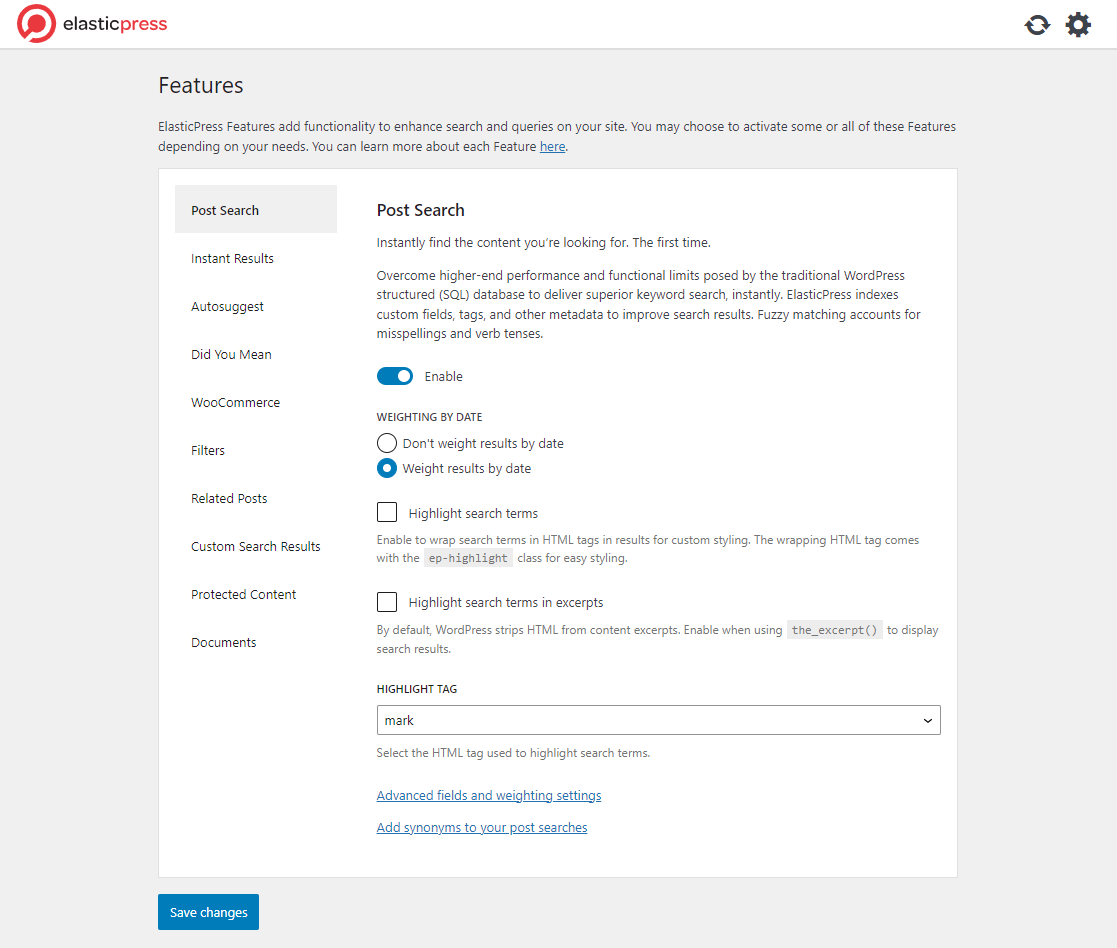
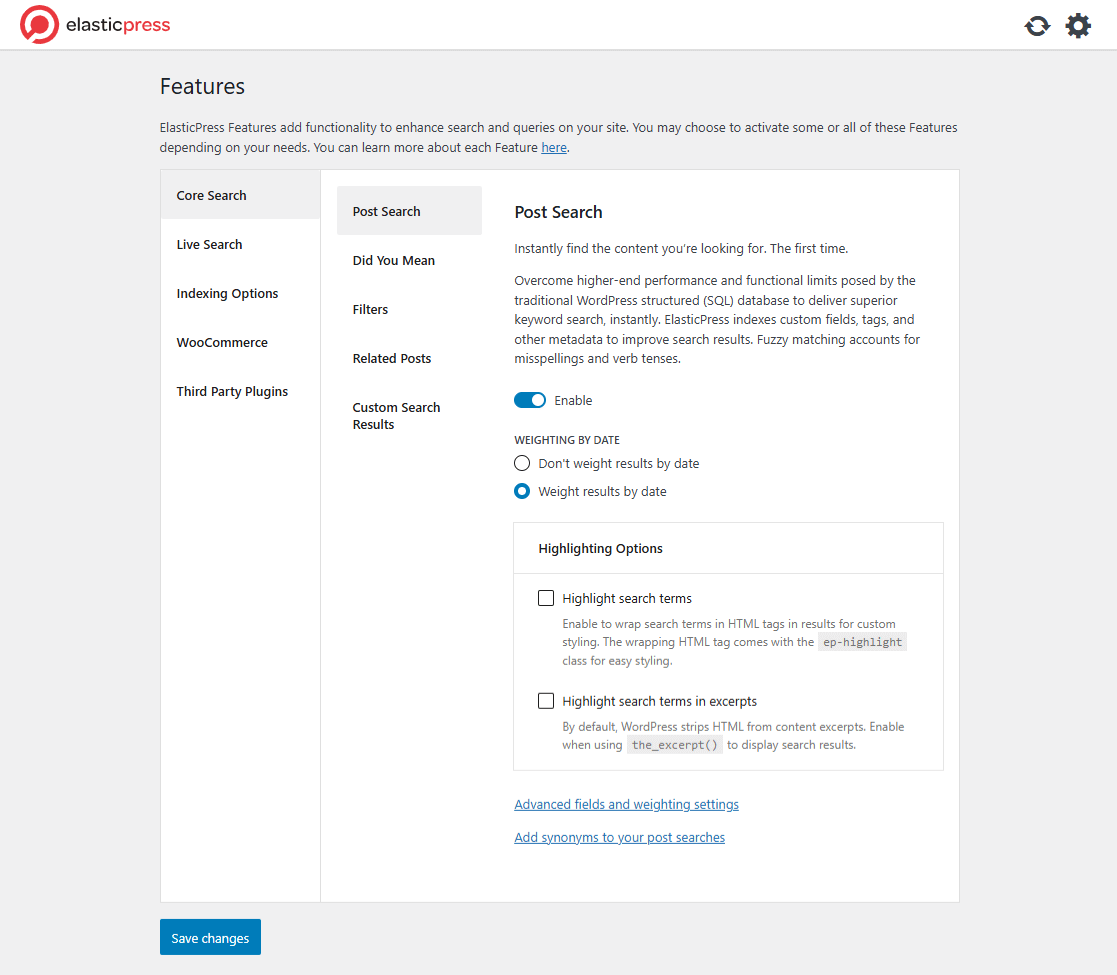
Release date and features page screenshot

diff --git a/CHANGELOG.md b/CHANGELOG.md
@@ -14,7 +14,7 @@ All notable changes to this project will be documented in this file, per [the Ke
 ### Developer
 -->
 
-## [5.3.0] - 2025-XX-XX
+## [5.3.0] - 2025-11-05
 
 Highlights of this version:
 
